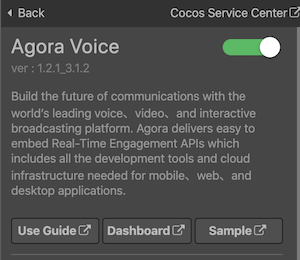
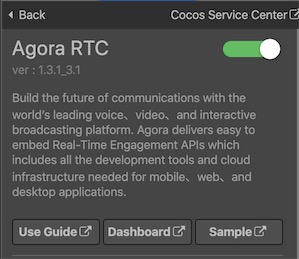
fix issues

Changed region(s): [[0.0, 0.0, 1.0, 1.0]]

diff --git a/en/cocos-service/agora.md b/en/cocos-service/agora.md
@@ -2,28 +2,30 @@
 
 Agora is a leading video, voice and live interactive streaming platform, helping developers deliver rich in-app experiences—including embedded voice and video chat, real-time recording, interactive live streaming, and real-time messaging.
 
-[Agora Live Interactive Audio Streaming](https://docs.agora.io/en/Audio%20Broadcast/product_live_audio?platform=All%20Platforms) enables one-to-many and many-to-many audio live streaming with the Agora RTC SDK.
+[Agora Interactive Live Streaming Premium](https://docs.agora.io/en/Interactive%20Broadcast/product_live?platform=Cocos%20Creator) enables one-to-many and many-to-many audio or video live streaming with the Agora SDK.
 
 ### Functions
 
 Agora Live Interactive Audio Streaming boasts a flexible combination of functions for different scenarios.
 
-| Function                        | Description                                                  | Scenarios                                                     |
-| :------------------------------- | :------------------------------------------------------------ | :------------------------------------------------------------ |
-| Co-hosting in one channel       | An audience switches to a co-host and interacts with the existing host. | <li>Large-scale live streams where hosts can invite the audience to interact with them. <li>Online games such as Murder Mystery and Werewolf Killing. |
-| Co-hosting across channels      | Hosts interact with each other across channels.              | PK Hosting.                                                  |
-| Audio mixing                    | Sends the local and online audio with the user's voice to other audience members in the channel. | <li>Online KTV. <li>Interactive music classes for children.  |
-| Voice changer and reverberation | Provides multiple presets to easily change the voice and set reverberation effects, also supports adjusting the pitch and using the equalization and reverberation modes flexibly. | <li>Online KTV.<li>To change the voice in an online chatroom. |
-| Spatial sound effects           | Sets the spatial sound effects for remote users to provide immersive experiences. | FPS games.                                                   |
-| Modify the raw data             | Developers obtain and modify the raw voice data of the SDK engine to create special effects, such as a voice change. | <li>To change the voice in an online voice chatroom.<li>Image enhancement in a live stream. |
-| Inject an online media stream   | Injects an external audio stream to an ongoing live interactive streaming channel. The host and audience in the channel can listen to or watch the stream while interacting with each other. You can set the attributes of the audio source. | <li>The host and audience listening to a concert together.   |
-| Push streams to the CDN         | Sends the audio of your channel to other RTMP servers through the CDN:<li>Starts or stops publishing at any time.<li>Adds or removes an address while continuously publishing the stream. <li>Adjusts the picture-in-picture layout. | <li>To send a live stream to WeChat or Weibo.<li>To allow more people to watch the live stream when the number of audience members in the channel reached the limit. |
+| Function                                | Description                                                  | Scenario                                                     |
+| --------------------------------------- | ------------------------------------------------------------ | ------------------------------------------------------------ |
+| Co-hosting in a channel                 | An audience switches to a co-host and interacts with the existing host. | <li>Large-scale live streams where hosts can invite the audience to interact with them. <li>Online games such as Murder Mystery and Werewolf Killing. |
+| Co-hosting across channels              | Hosts interact with each other across channels.              | PK Hosting.                                                  |
+| Audio mixing                            | Sends the local and online audio with the user's voice to other audience members in the channel. | <li>Online KTV. <li>Interactive music classes for children.  |
+| Screen sharing                          | Hosts share their screens with the audience in the channel. Supports specifying which screen or which window to share, and supports specifying the sharing region. | <li>Interactive online classes.<li>Live streaming of gaming hosts. |
+| Basic image enhancement                 | Sets basic beauty effects, including skin smoothening, whitening, and cheek blushing. | Image enhancement in a video call.                           |
+| Modify the raw data                     | Developers obtain and modify the raw voice or video data of the SDK engine to create special effects, such as a voice change. | <li>To change the voice in an online voice chatroom.<li>Image enhancement in a live stream. |
+| Inject an online media stream           | Injects an external audio or video stream to an ongoing live interactive streaming channel. The host and audience in the channel can listen to or watch the stream while interacting with each other. You can set the attributes of the video source. | <li>The host and audience watching a movie or game together. |
+| Customize the video source and renderer | Users process videos (from self-built cameras, screen sharing, or files) for image enhancement and filtering. | <li>To use a customized image enhancement library or pre-processing library.<li>To customize the application's built-in image and video modules.<li>To use other video sources, such as a recorded video.<li>To provide flexible device management for exclusive video capture devices to avoid conflicts with other services. |
+| Push streams to the CDN                 | Sends the audio and video of your channel to other RTMP servers through the CDN:<li>Starts or stops publishing at any time.<li>Adds or removes an address while continuously publishing the stream. <li>Adjusts the picture-in-picture layout. | <li>To send a live stream to WeChat or Weibo.<li>To allow more people to watch the live stream when the number of audience members in the channel reached the limit. |
+
 
 ### Version Update Description
 
 - Latest Version: 1.3.1_3.1
 
-    - Added video module and optimize performance.
+    - Modify the service name, added video module and optimize performance.
 
 - v1.2.1_3.1.2
 
@@ -89,16 +91,18 @@ After the service is activated, Cocos Service will automatically activate the Ag
 
   **Note**: If you find that the Sample project is successfully initialized during debugging in the browser, but there is no callback when you click **Join Channel**, please confirm whether you have enabled the Agora RTC service in the **Cocos Service** panel.
 
+- Sample project of Interactive Live Video Streaming, please refer to [Agora-Cocos-Quickstart](https://docs.agora.io/en/Interactive%20Broadcast/start_live_cocos_creator?platform=Cocos%20Creator#see-also).
+
 ## Developer Guide
 
-Please refer to [Agora Live Interactive Audio Streaming - Implementation](https://docs.agora.io/en/Audio%20Broadcast/start_live_audio_cocos_creator?platform=Cocos%20Creator#implementation) and [Start a Video Call](https://docs.agora.io/en/Video/start_call_cocos_creator?platform=Android) documentations.
+Please refer to [Start Interactive Live Audio Streaming](https://docs.agora.io/en/Interactive%20Broadcast/start_live_audio_cocos_creator?platform=Cocos%20Creator), [Start Interactive Live Video Streaming](https://docs.agora.io/en/Interactive%20Broadcast/start_live_cocos_creator?platform=Cocos%20Creator) and [Start a Video Call](https://docs.agora.io/en/Video/start_call_cocos_creator?platform=Android) documentations.
 
 ## Reference Links
 
-- [Agora Platform Overview](https://docs.agora.io/en/Agora%20Platform/agora_platform?platform=All%20Platforms)
-- [Agora Live Interactive Audio Streaming Overview](https://docs.agora.io/en/Audio%20Broadcast/product_live_audio?platform=All%20Platforms)
+- [Agora Platform Overview](https://docs.agora.io/en/Agora%20Platform/agora_platform?platform=Cocos%20Creator)
+- [Agora Live Interactive Audio Streaming Overview](https://docs.agora.io/en/Interactive%20Broadcast/product_live?platform=Cocos%20Creator)
 - [Use an App ID for authentication](https://docs.agora.io/en/Agora%20Platform/token?platform=All%20Platforms) 
 
 ## API Reference
 
-Please refer to the [Agora RTC API Reference](https://docs.agora.io/en/Audio%20Broadcast/API%20Reference/cocos_creator_voice/index.html) documentation.
+Please refer to the [Cocos Creator SDK API Reference](https://docs.agora.io/en/Video/API%20Reference/cocos_creator/index.html?platform=All%20Platforms) documentation.

diff --git a/zh/cocos-service/about-cocos-service.md b/zh/cocos-service/about-cocos-service.md
@@ -48,7 +48,7 @@ Cocos Service 是集成在 Cocos Creator 内的服务面板，其中提供了一
 Cocos Service 目前支持集成以下服务：
 
 - [Cocos Analytics](cocos-analytics.md)：精准了解游戏的新增、活跃、留存、付费等数据。
-- [声网（Agora RTC）](agora.md)：游戏内置实时音频 SDK。
+- [声网（Agora RTC）](agora.md)：实时音视频。
 - [云开发（腾讯云）](tcb.md)：Serverless 云端一体化产品方案，助力小程序、Web 应用、移动应用成功。
 - [游戏联机对战引擎（腾讯云）](mgobe.md)：实时、弹性扩容的高性能联机对战服务，快速构建游戏多人一起玩的能力。
 - [游戏多媒体引擎（腾讯云）](gme.md)：一站式语音解决方案，助力开发者快速实现各类语音功能。

diff --git a/en/cocos-service/agc-clouddb.md b/en/cocos-service/agc-clouddb.md
@@ -26,8 +26,8 @@ When using Cloud DB service, if the free resource quota cannot meet the develope
 
 - Latest Version: 0.5.2_1.2.3.301
 
-    - Updated SDK to version 1.2.3.301.
-    - Fix the bug that the querier can only query string type.
+    - Updated SDK to v1.2.3.301.
+    - Fix the bug that the querier can only query String type.
     - Add `openCloudZone2` asynchronous method, `remove` remove listener method.
     - Add `getObjectTypeName` and `getPackageName` methods to the query result set object.
     - Remove `setUpgradeProcessMode`, `deleteAll` method.

diff --git a/en/cocos-service/agc-appmessaging.md b/en/cocos-service/agc-appmessaging.md
@@ -30,7 +30,7 @@ A user can tap an in-app message to access the destination specified during mess
 
 - Latest Version: 0.5.6_1.4.2.301
 
-    - Updated SDK to version 1.4.2.301.
+    - Updated SDK to v1.4.2.301.
 
 - v0.5.3_1.4.0
 
